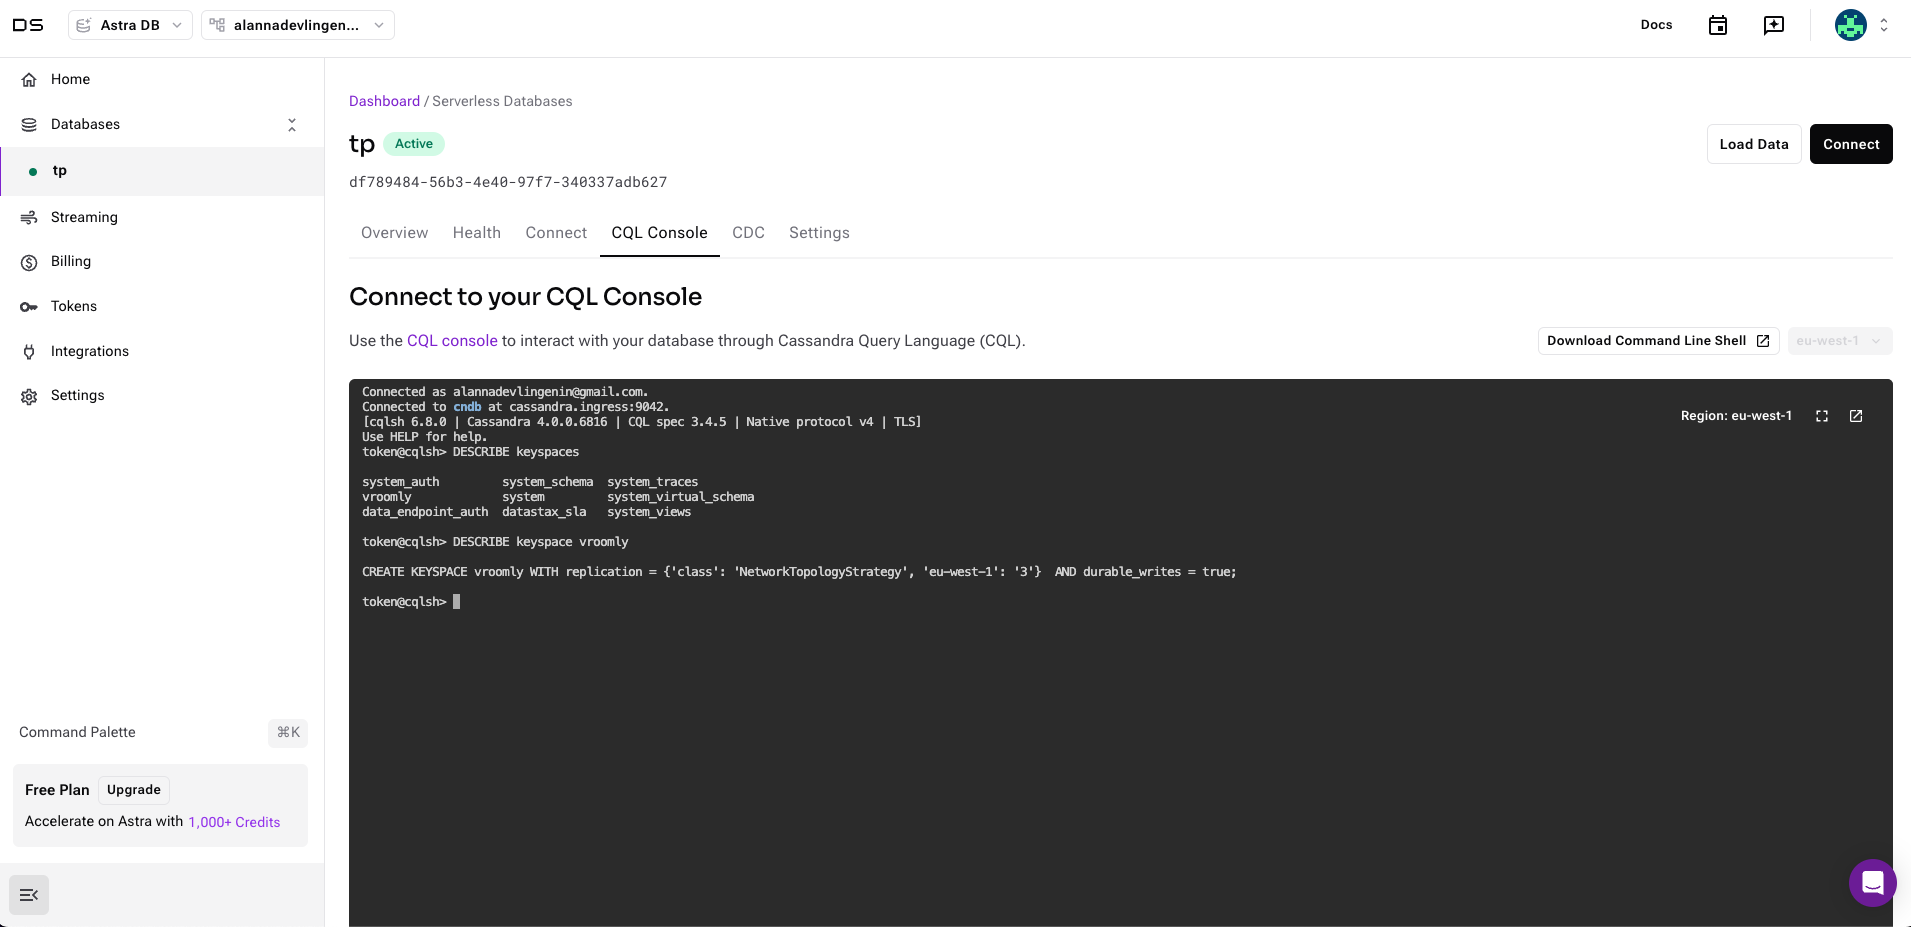
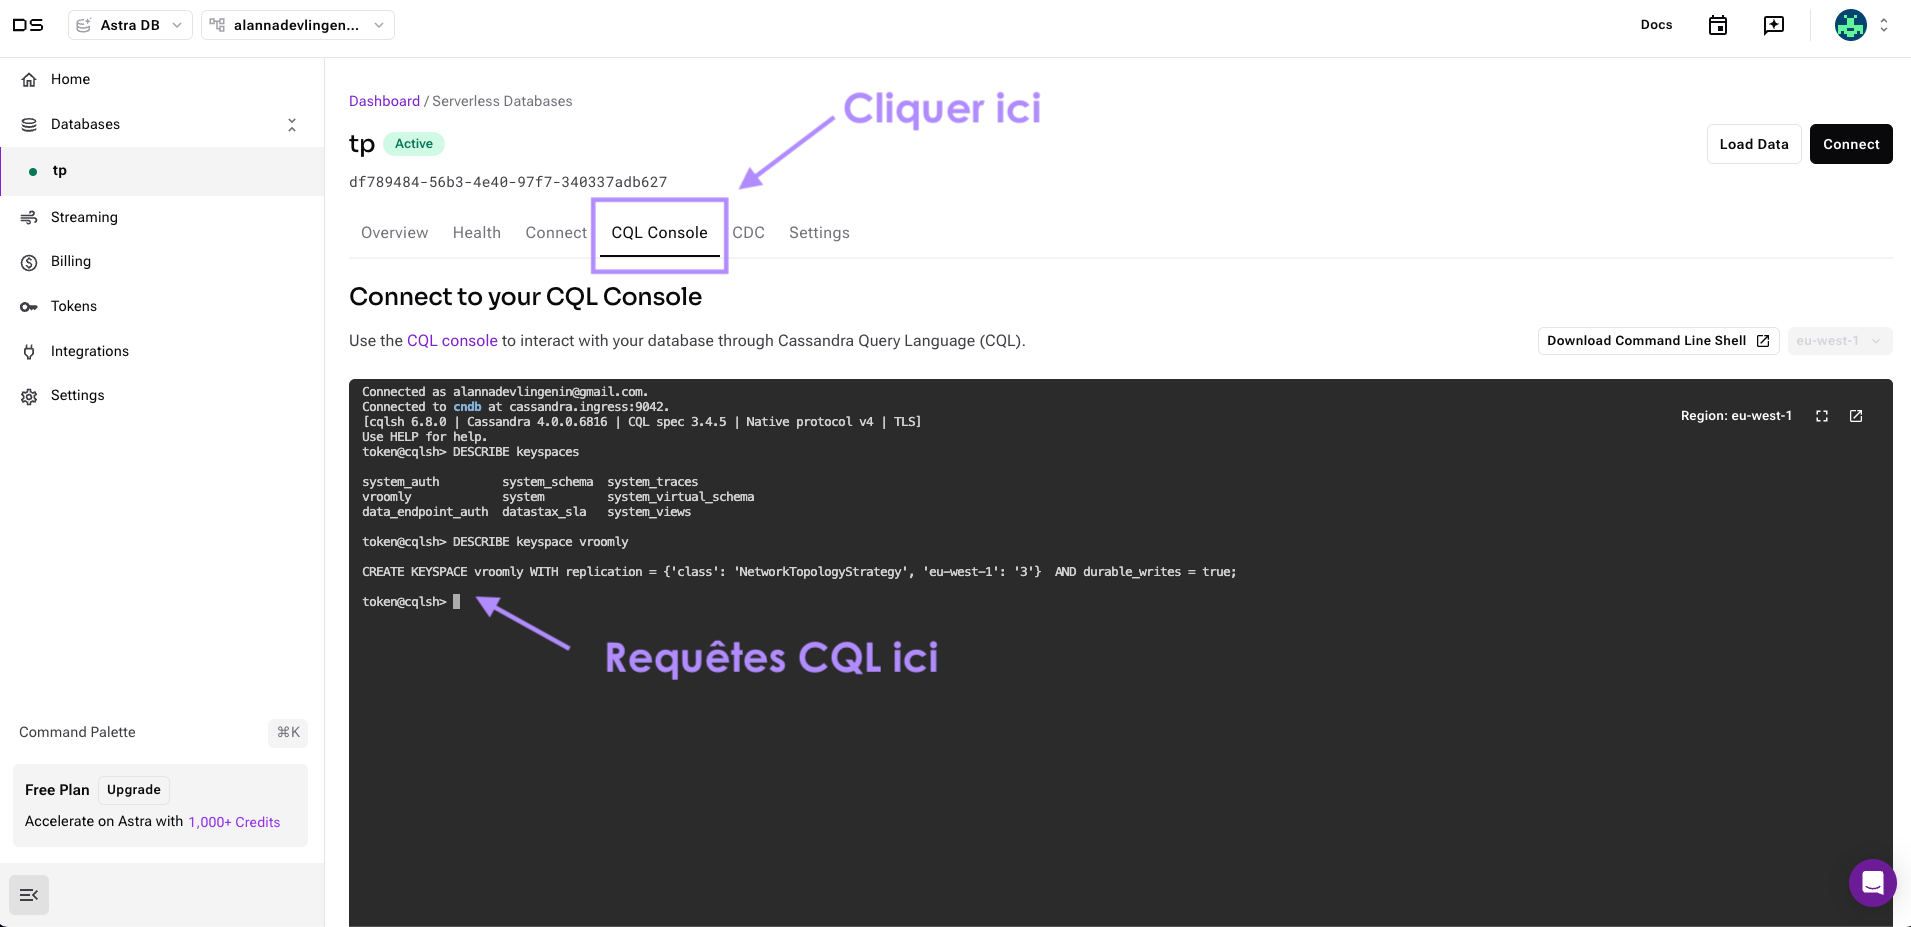
Add CQL console

diff --git a/TP/TP5/tp5.md b/TP/TP5/tp5.md
@@ -121,12 +121,18 @@ Jusqu'ici cela ressemble à du SQL, mais il y a des différences. En effet, comm
 
 Nous allons créer un [compte DataStax](https://astra.datastax.com/signup) afin de pouvoir héberger une base de données Apache Cassandra.
 
-Une fois votre compte crée, vous allez pouvoir créer une base de données. Pour cela, cliquez sur l'onglet **Databases** puis sur  **Create Database**.
+Une fois votre compte crée, vous allez pouvoir créer une base de données. Pour cela, cliquez sur l'onglet **Databases** puis sur **Create Database**.
 
 ![Create database](img/create-database.png)
 
 Cela vous amènera sur une page où vous pourrez choisir le type de base de données que vous souhaitez créer. Sélectionnez **Serverless (Non-Vector)** puis renseignez le nom de la base de données, le nom du keyspace ainsi que la région (ne pas changer le provider).
 
+- **Nom de la base de données** : `tp`
+- **Nom du keyspace** : `vroomly`
+- **Région** : `eu-west-1`
+
 ![Creating database](img/creating-database.png)
 
 La création de la base de données peut prendre quelques minutes. Une fois terminée, vous pourrez accéder à la console CQL.
+
+![CQL console](img/describe-keyspace.png)
